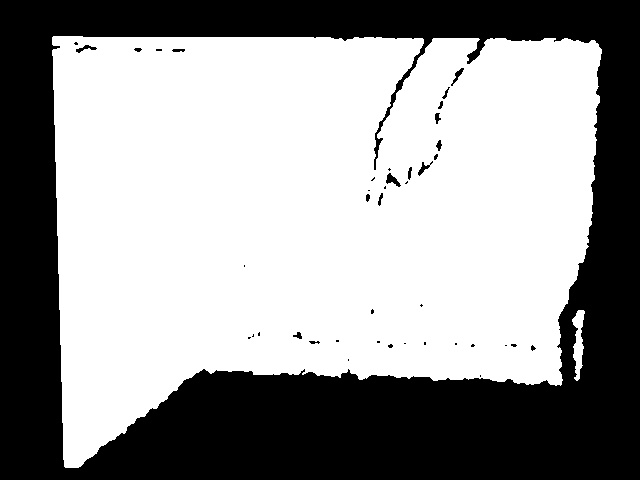
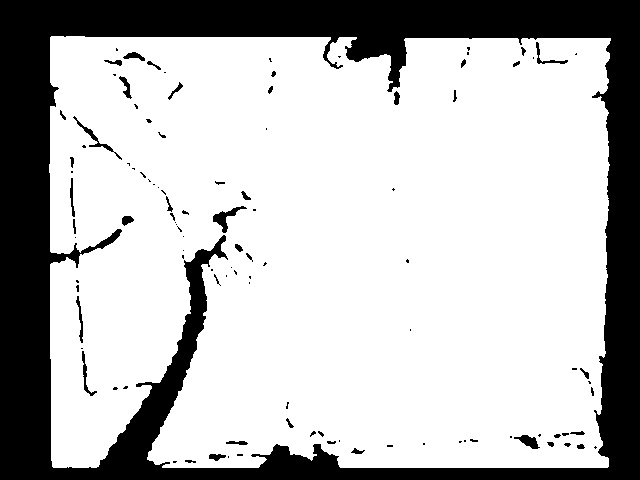
p

diff --git a/Python/MEDIAPIPE/EXP1-2d-MediaPipe-Astra/Astra-RGB-Depth-MQTT-MP.py b/Python/MEDIAPIPE/EXP1-2d-MediaPipe-Astra/Astra-RGB-Depth-MQTT-MP.py
@@ -10,14 +10,14 @@ maxDepth = 3000
 bZeroMask = True
 nErosions = 3
 
-bAutoExposure = True
-exposure = 150
+bAutoExposure = False
+exposure = 1000
 
 # ======= Smoothing Parameters =======
 # How much smoothing (and latency) you want
 # 0 --> no smoothing, no latency
 # 0.9 --> lots of smoothing, lots of latency
-easingParam = 0.3
+easingParam = 0
 
 # Import modules of interest
 import cv2
@@ -36,6 +36,7 @@ import math
 import serial
 import re
 import URDataGrabber as ur
+import find_pink1
 """
 
 
@@ -90,9 +91,9 @@ dev.set_image_registration_mode(c_api.OniImageRegistrationMode.ONI_IMAGE_REGISTR
 # Set exposure settings
 if (color_stream.camera != None):
     color_stream.camera.set_auto_exposure(bAutoExposure)
-    #color_stream.camera.set_exposure(exposure)
+    color_stream.camera.set_exposure(exposure)
     # Wait for these settings to take effect
-    time.sleep(1)
+    time.sleep(10)
 
 # Main loop
 lastUpdateTime = time.time()
@@ -101,6 +102,7 @@ px = 0
 py = 0
 pz = 0
 detector = handDetector()
+pink = find_pink1.PinkDetector()
 while True:
     
     frame = depth_stream.read_frame()
@@ -118,7 +120,7 @@ while True:
     RGB_Save = np.array(colorPix)
     colorPix = detector.findHands(colorPix,draw = True)
     lmList= detector.findPosition(colorPix,draw =  True)
-    
+    pinkImg = pink.ImgaeProc(colorPix)
     
     
     zs = []
@@ -187,6 +189,7 @@ while True:
     cv2.putText(colorPix, str(int(fps)), (10, 70), cv2.FONT_HERSHEY_PLAIN, 3, (255, 0, 255),3)
     cv2.imshow("1",depthPix)
     cv2.imshow("2",colorPix)
+    cv2.imshow("3",pinkImg)
     cv2.waitKey(34)
     
     if curBool ==1 :#and prevBool == 0:

diff --git a/Python/MEDIAPIPE/EXP1-2d-MediaPipe-Astra/find_pink1.py b/Python/MEDIAPIPE/EXP1-2d-MediaPipe-Astra/find_pink1.py
@@ -1,0 +1,31 @@
+import cv2
+import imutils
+import numpy as np
+
+
+class PinkDetector():
+    def __init__(self):
+        self.pinkDict = {}
+        self.lower = np.array([17, 15, 100],dtype = "uint8")
+        self.upper = np.array([50, 100, 200],dtype= "uint8")
+    def ImgaeProc(self,image):
+        mask = cv2.inRange(image, self.lower, self.upper)
+        print (np.average(mask))
+        output = cv2.bitwise_and(image, image, mask = mask)
+        return  output
+if __name__ =="__main__":
+    det = PinkDetector()
+    cap =  cv2.VideoCapture(0)
+    while True:
+        b,im = cap.read()
+        #im = cv2.cvtColor(im,cv2.COLOR_RGB2BGR)
+        im = det.ImgaeProc(im)
+        
+        cv2.imshow("n",im)
+        if cv2.waitKey(1) & 0xFF == ord('q'):
+            break
+    
+
+    cap.release()
+    cv2.destroyAllWindows()   
+    

diff --git a/Python/MEDIAPIPE/Shahar Experimets/find_pink1.py b/Python/MEDIAPIPE/Shahar Experimets/find_pink1.py
@@ -1,0 +1,31 @@
+import cv2
+import imutils
+import numpy as np
+
+
+class PinkDetector():
+    def __init__(self):
+        self.pinkDict = {}
+        self.lower = np.array([17, 15, 100],dtype = "uint8")
+        self.upper = np.array([50, 100, 200],dtype= "uint8")
+    def ImgaeProc(self,image):
+        mask = cv2.inRange(image, self.lower, self.upper)
+        print (np.average(mask))
+        output = cv2.bitwise_and(image, image, mask = mask)
+        return  output
+if __name__ =="__main__":
+    det = PinkDetector()
+    cap =  cv2.VideoCapture(0)
+    while True:
+        b,im = cap.read()
+        #im = cv2.cvtColor(im,cv2.COLOR_RGB2BGR)
+        im = det.ImgaeProc(im)
+        
+        cv2.imshow("n",im)
+        if cv2.waitKey(1) & 0xFF == ord('q'):
+            break
+    
+
+    cap.release()
+    cv2.destroyAllWindows()   
+    

diff --git a/Python/MEDIAPIPE/EXP1-2d-MediaPipe-Astra/HandTrackingModule.py b/Python/MEDIAPIPE/EXP1-2d-MediaPipe-Astra/HandTrackingModule.py
@@ -4,7 +4,7 @@ import time
 
 
 class handDetector():
-    def __init__(self, mode=False, maxHands=2, detectionCon=0.5, trackCon=0.5):
+    def __init__(self, mode=False, maxHands=1, detectionCon=0.7, trackCon=0.3):
         # Create the object and those objects will have its own variable
         self.mode = mode
         self.maxHands = maxHands
@@ -46,6 +46,7 @@ class handDetector():
                     cv2.circle(img, (cx, cy), 5, (255, 0, 255), cv2.FILLED)
 
         return lmList
+
 
 
 def main():

diff --git a/Python/UR/EXP2/URDataGrabber.py b/Python/UR/EXP2/URDataGrabber.py
@@ -115,4 +115,4 @@ def GrabData(DataInds,HOST = "192.168.1.25",PORT_30003 = 30003):
     print ("Program finish")
 if __name__ =="__main__":
     while True:
-        print (GrabData([12,8])) # 12 - TCP, 8 - Joint Orientation
+        print (GrabData([12])) # 12 - TCP, 8 - Joint Orientation
